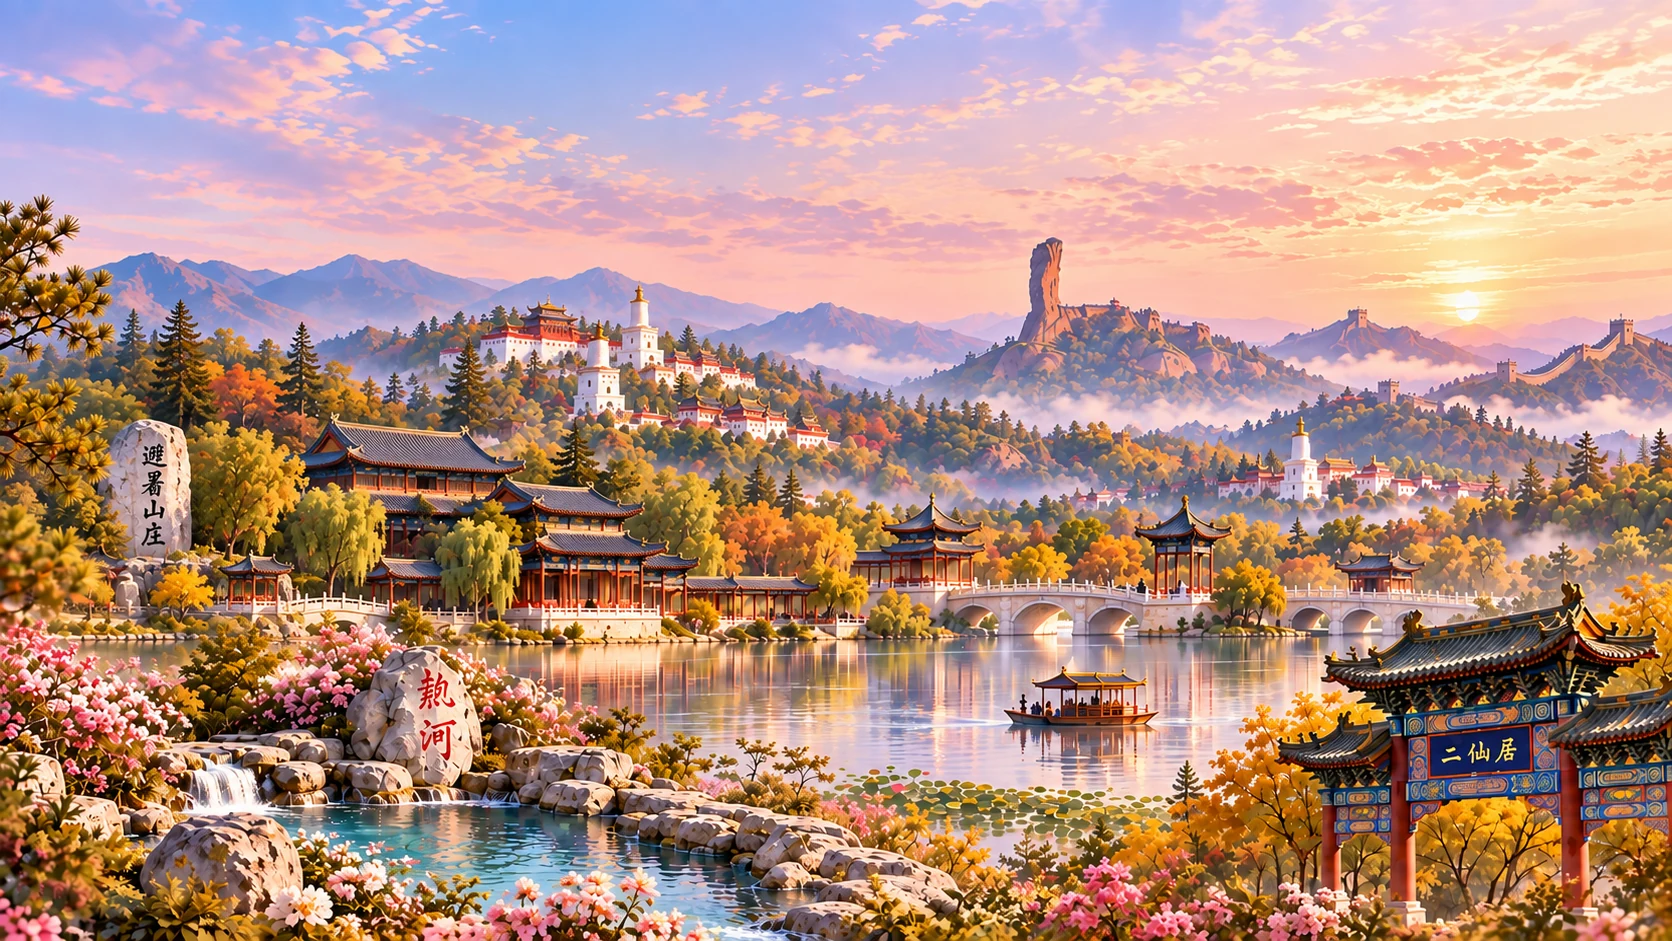
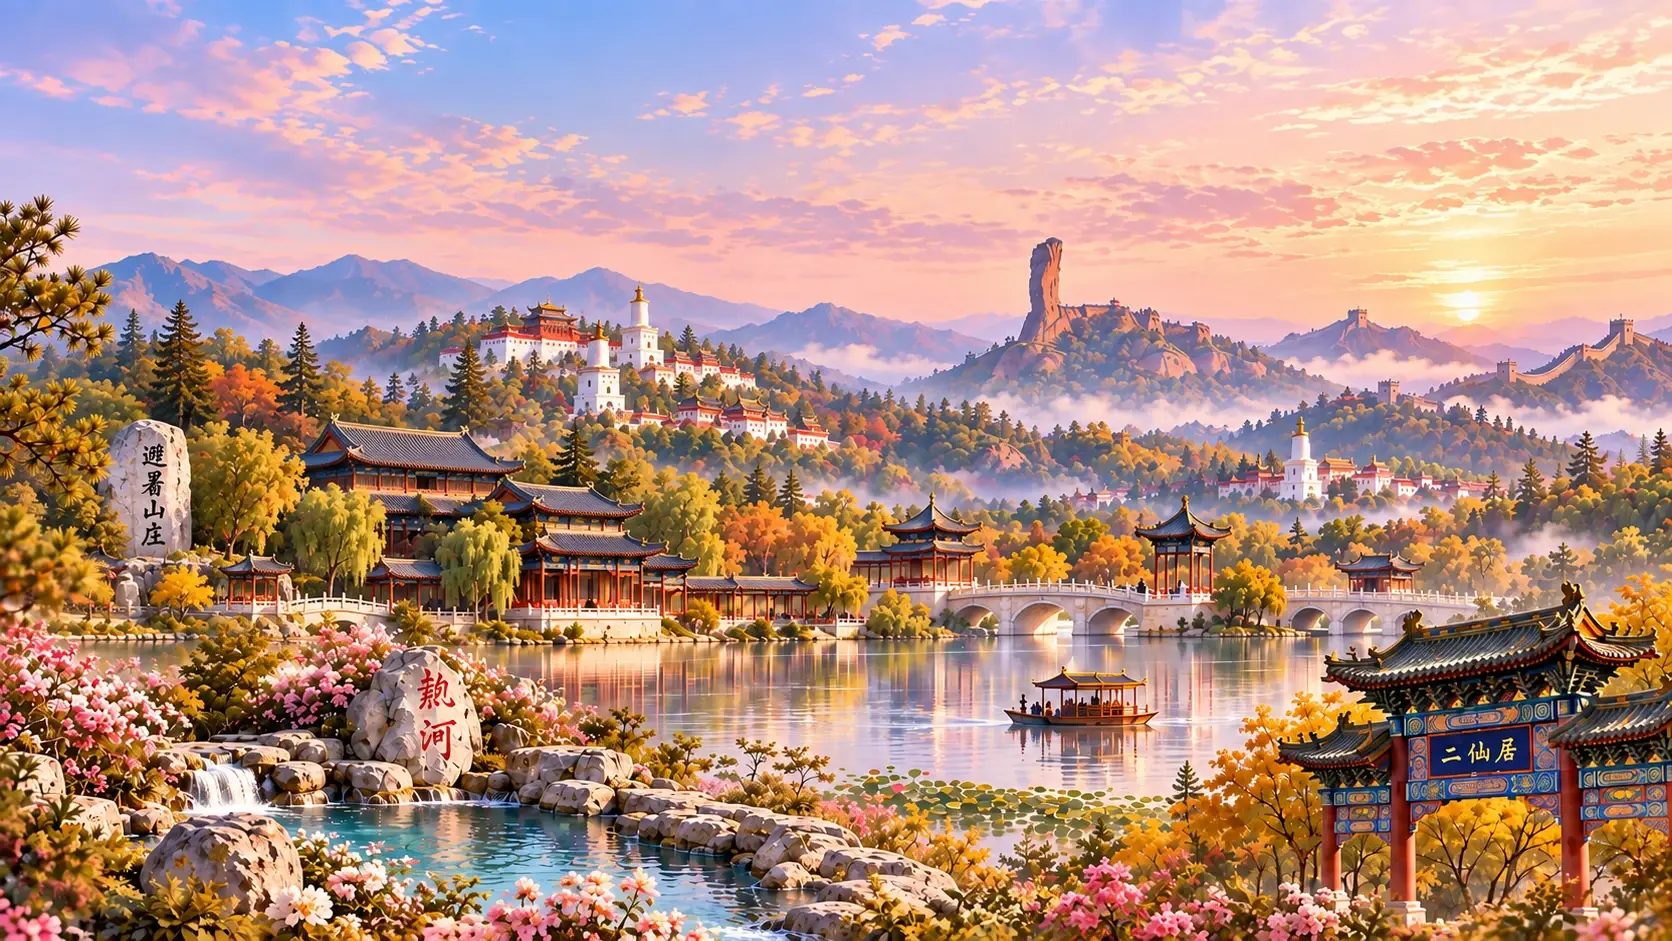
调整图片为webp测试

diff --git a/content/posts/chengde-elephant-slide-childhood-memory.md b/content/posts/chengde-elephant-slide-childhood-memory.md
@@ -13,7 +13,7 @@ tags:
 categories:
   - 生活
 cover:
-    image: "/images/ScreenShot_2026-09-29_163241_526.png"
+    image: "/images/ScreenShot_2026-09-29_163241_526.webp"
     alt: "避暑山庄里的大象滑梯"
 ---
 
